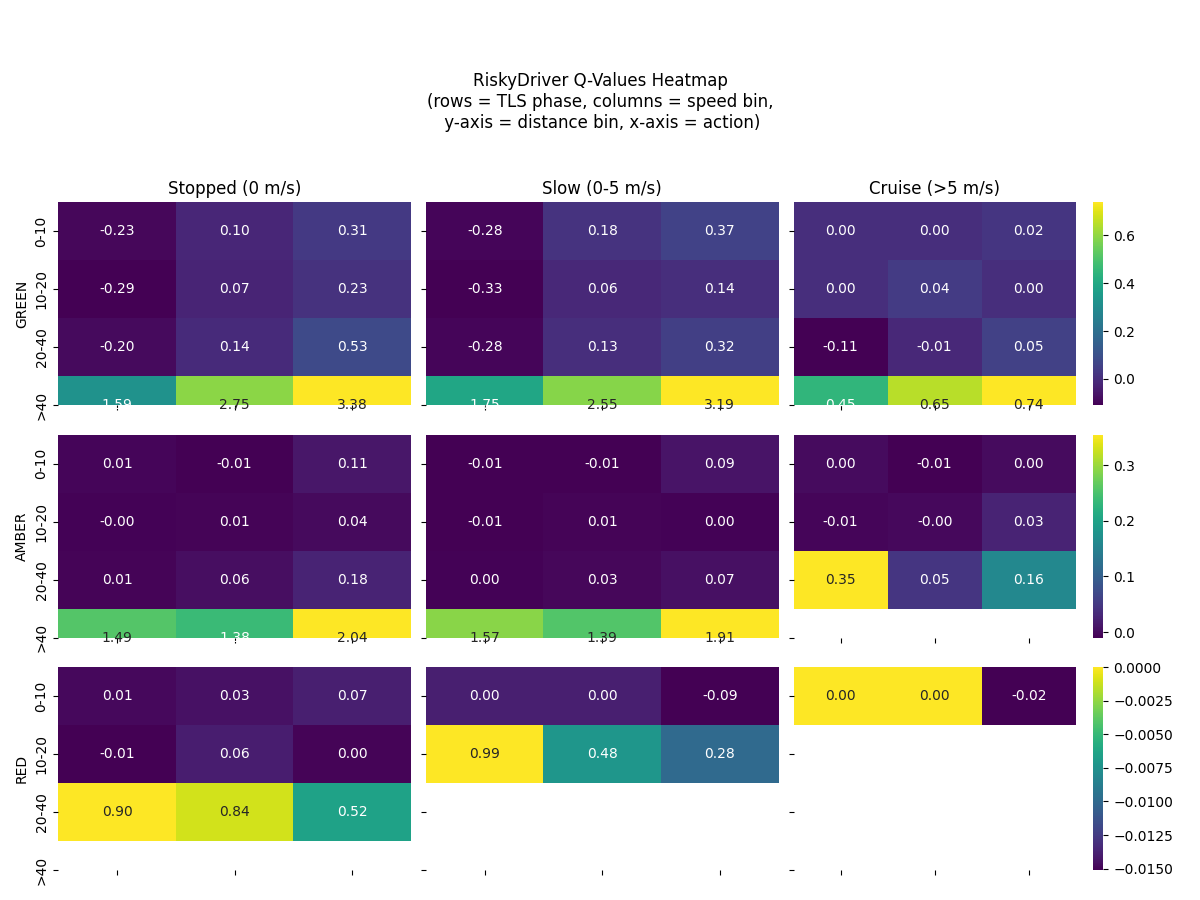
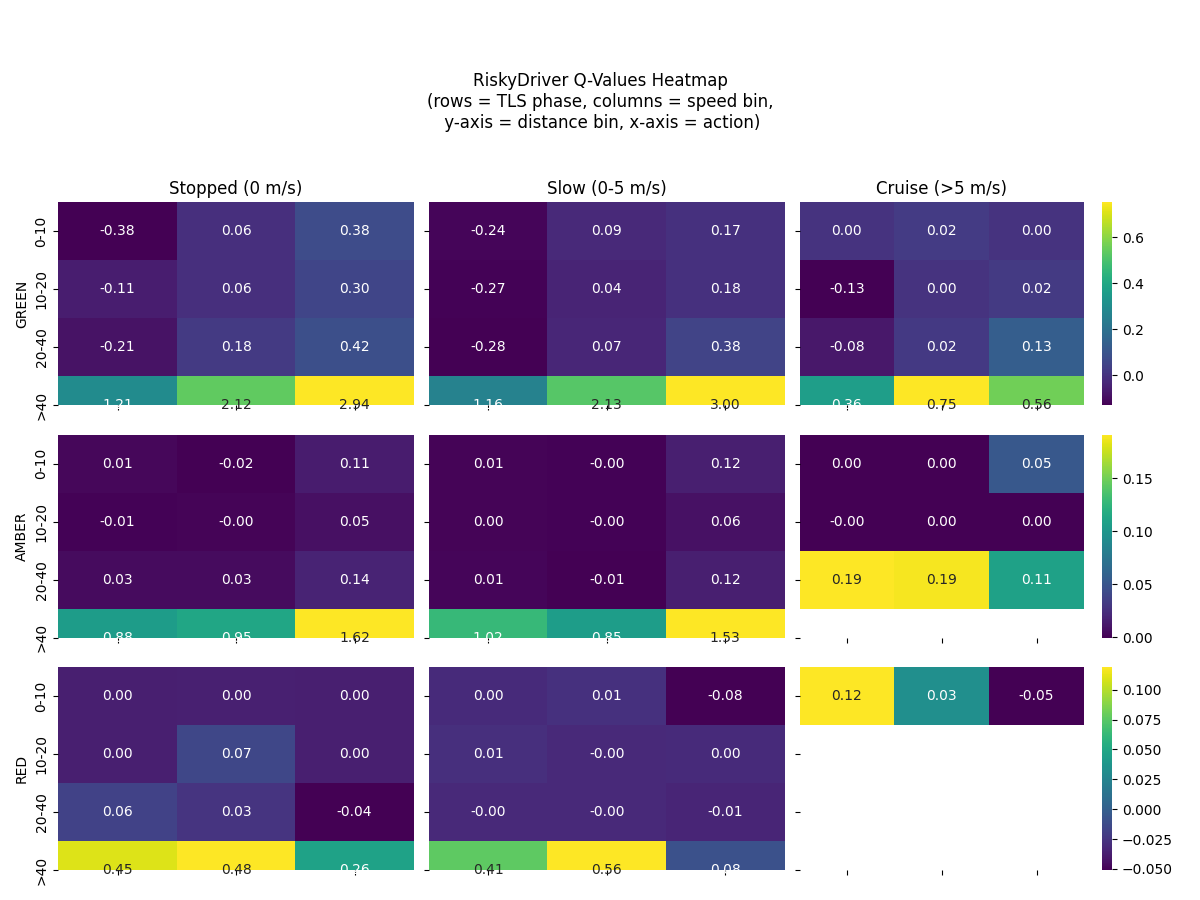
fix: YAY finally fixed amber red encs

diff --git a/src/simulation/simulation_runner.py b/src/simulation/simulation_runner.py
@@ -76,17 +76,20 @@ class SimulationRunner:
                     # TLS stuff
                     next_tls = traci.vehicle.getNextTLS(vid)
                     seen_ids = set()
-                    for tls_id, state, dist_raw, *extra in next_tls:
+                    for tls_id, link_index, dist_raw, *extra in next_tls:
                         dist = float(dist_raw)
                         seen_ids.add(tls_id)
-                        st = str(state).lower()
-                        rec['tls_last_state'][tls_id] = st
 
-                        if dist <= 10.0:
+                        # fetch actual TLS colour string, e.g. "GrY"
+                        raw_state = traci.trafficlight.getRedYellowGreenState(tls_id).lower()
+                        rec['tls_last_state'][tls_id] = raw_state
+
+                        # count first encounter within 10 m
+                        if dist <= 10.0 and tls_id not in rec['tls_encountered']:
                             rec['tls_encountered'].add(tls_id)
-                            if 'y' in st:
+                            if 'y' in raw_state:
                                 rec['amber_encountered'] += 1
-                            elif 'r' in st:
+                            elif 'r' in raw_state:
                                 rec['red_encountered'] += 1
 
                     passed = set(rec['tls_last_state']) - seen_ids
@@ -135,13 +138,20 @@ class SimulationRunner:
             except traci.TraCIException:
                 pass
 
-            # get tls metrics
+            #FIXME: overwrites amber/red encs
+            # # get tls metrics
+            # for agent in agent_manager.agents:
+            #     vid = getattr(agent, 'vehicle_id', None) or getattr(agent, 'vid', None)
+            #     rec = data[vid]
+            #     rec['amber_encountered'] = agent.recorder.amber_encounters
+            #     rec['red_encountered']   = agent.recorder.red_encounters
+            #     rec['amber_run_count']   = agent.recorder.amber_runs
+            #     rec['red_run_count']     = agent.recorder.red_runs
+
             for agent in agent_manager.agents:
-                vid = getattr(agent, 'vehicle_id', None) or getattr(agent, 'vid', None)
+                vid = agent.vehicle_id
                 rec = data[vid]
-                rec['amber_encountered'] = agent.recorder.amber_encounters
-                rec['red_encountered']   = agent.recorder.red_encounters
-                rec['amber_run_count']   = agent.recorder.amber_runs
-                rec['red_run_count']     = agent.recorder.red_runs
+                rec['amber_run_count'] = agent.recorder.amber_runs
+                rec['red_run_count']   = agent.recorder.red_runs
 
         return data, route_idx

diff --git a/src/agents/safe_driver.py b/src/agents/safe_driver.py
@@ -29,34 +29,52 @@ class SafeDriver(QLearningDriver):
         )
         self.state = 'approach'
 
+        self.last_tls_phase: str | None = None
+
     def encode_state(self) -> tuple[str,int,int,int]:
         """
         Returns (phase, dist_bin, speed_bin, ttl_bin)
         """
+
         next_tls = traci.vehicle.getNextTLS(self.vehicle_id)
+
         if not next_tls:
             # free road = treat like green/farthest tls
             speed = traci.vehicle.getSpeed(self.vehicle_id)
             return 'GREEN', 3, self._speed_bin(speed), N_TTL_BINS-1
 
         tls_id, _, dist, _ = next_tls[0]
-        raw = traci.trafficlight.getRedYellowGreenState(tls_id)
+
+        #NOTE: logic now done in simulation_runner.py isntead
+        # raw   = traci.trafficlight.getRedYellowGreenState(tls_id).lower()
+
+        # phase = 'GREEN' if 'g' in raw else ('AMBER' if 'y' in raw else 'RED')
+
+        # if self.last_tls_phase is None or phase != self.last_tls_phase:
+        #     if phase == 'AMBER':
+        #         self.recorder.saw_amber()
+        #     elif phase == 'RED':
+        #         self.recorder.saw_red()
+
+        raw   = traci.trafficlight.getRedYellowGreenState(tls_id).lower()
         phase = 'GREEN' if 'g' in raw else ('AMBER' if 'y' in raw else 'RED')
+        self.last_tls_phase = phase
 
         # distance bins
-        if   dist <= 10: dist_b = 0
+        if dist <= 10: dist_b = 0
         elif dist <= 20: dist_b = 1
         elif dist <= 40: dist_b = 2
-        else:            dist_b = 3
+        else: dist_b = 3
 
-        speed   = traci.vehicle.getSpeed(self.vehicle_id)
+        speed = traci.vehicle.getSpeed(self.vehicle_id)
         speed_b = self._speed_bin(speed)
-        ttl_b   = self._time_to_red_bin(tls_id)
+        ttl_b = self._time_to_red_bin(tls_id)
 
         return phase, dist_b, speed_b, ttl_b
 
     def _speed_bin(self, speed: float) -> int:
-        if speed == 0:     return 0
+        if speed == 0: 
+            return 0
         return 1 if speed <= 5 else 2
 
     def _time_to_red_bin(self, tls_id: str) -> int:
@@ -65,9 +83,9 @@ class SafeDriver(QLearningDriver):
         """
         # TODO: check tuple size unpack
         switch_time = traci.trafficlight.getNextSwitch(tls_id)
-        now         = traci.simulation.getTime()
-        total_dur   = traci.trafficlight.getPhaseDuration(tls_id)
-        ttl_frac    = max(0.0, (switch_time - now) / total_dur)
+        now = traci.simulation.getTime()
+        total_dur = traci.trafficlight.getPhaseDuration(tls_id)
+        ttl_frac = max(0.0, (switch_time - now) / total_dur)
         return min(N_TTL_BINS-1, int(ttl_frac * N_TTL_BINS))
 
     def compute_reward(

diff --git a/src/agents/risky_driver.py b/src/agents/risky_driver.py
@@ -27,8 +27,9 @@ class RiskyDriver(QLearningDriver):
             gamma=0.9,
             epsilon=1.0,
         )
+
         self.route = route
-        self.last_tls_state = None  # event recording
+        self.last_tls_phase: str | None = None
 
         # tuneable motion parameters
         self.a_c = 4.5
@@ -46,25 +47,31 @@ class RiskyDriver(QLearningDriver):
             return 'GREEN', 3, self._speed_bin(speed), N_TTL_BINS-1
 
         tls_id, _, dist, _ = next_tls[0]
-        raw = traci.trafficlight.getRedYellowGreenState(tls_id).lower()
 
-        # record amber/red events once
-        if self.last_tls_state is None or raw != self.last_tls_state:
-            if 'y' in raw:
-                self.recorder.saw_amber()
-            if 'r' in raw:
-                self.recorder.saw_red()
-        self.last_tls_state = raw
+        #NOTE: should now work in simulation_runner.py instead
+        # # collapse into phase
+        # raw   = traci.trafficlight.getRedYellowGreenState(tls_id).lower()
+        # phase = 'GREEN' if 'g' in raw else ('AMBER' if 'y' in raw else 'RED')
 
+        # # record exactly one encounter when phase first changes
+        # if self.last_tls_phase is None or phase != self.last_tls_phase:
+        #     if phase == 'AMBER':
+        #         self.recorder.saw_amber()
+        #     elif phase == 'RED':
+        #         self.recorder.saw_red()
+        # self.last_tls_phase = phase
+
+        raw   = traci.trafficlight.getRedYellowGreenState(tls_id).lower()
         phase = 'GREEN' if 'g' in raw else ('AMBER' if 'y' in raw else 'RED')
+        self.last_tls_phase = phase
 
         # distance bins
-        if   dist <= 10: dist_b = 0
+        if dist <= 10: dist_b = 0
         elif dist <= 20: dist_b = 1
         elif dist <= 40: dist_b = 2
-        else:            dist_b = 3
+        else: dist_b = 3
 
-        speed   = traci.vehicle.getSpeed(self.vehicle_id)
+        speed = traci.vehicle.getSpeed(self.vehicle_id)
         speed_b = self._speed_bin(speed)
         ttl_b   = self._time_to_red_bin(tls_id)
 

diff --git a/src/agents/agent_manager.py b/src/agents/agent_manager.py
@@ -80,10 +80,11 @@ class AgentManager:
             self.safe_driver = SafeDriver(safe_id, recorder)
             self.agents.append(self.safe_driver)
         else:
-            self.safe_driver.vehicle_id  = safe_id
-            self.safe_driver.prev_state  = None
+            self.safe_driver.vehicle_id = safe_id
+            self.safe_driver.prev_state = None
             self.safe_driver.last_action = None
-            self.safe_driver.recorder    = TLSEventRecorder()
+            self.safe_driver.recorder = TLSEventRecorder()
+            self.safe_driver.last_tls_phase = None
 
         # riskydriver instantiation / reuse
         if self.risky_driver is None:
@@ -91,10 +92,11 @@ class AgentManager:
             self.risky_driver = RiskyDriver(risky_id, self.route_id, recorder)
             self.agents.append(self.risky_driver)
         else:
-            self.risky_driver.vehicle_id  = risky_id
-            self.risky_driver.prev_state  = None
+            self.risky_driver.vehicle_id = risky_id
+            self.risky_driver.prev_state = None
             self.risky_driver.last_action = None
-            self.risky_driver.recorder    = TLSEventRecorder()
+            self.risky_driver.recorder = TLSEventRecorder()
+            self.risky_driver.last_tls_phase = None
 
     def update_agents(self, step: int) -> None:
         active = set(traci.vehicle.getIDList())

diff --git a/src/simulation/batch.py b/src/simulation/batch.py
@@ -91,14 +91,14 @@ def main(num_runs: int = 100):
         return df
 
 
-    qt_safe    = mgr.safe_driver.qtable
-    df_q_safe  = build_q_df(qt_safe)
+    qt_safe = mgr.safe_driver.qtable
+    df_q_safe = build_q_df(qt_safe)
 
-    qt_risky   = mgr.risky_driver.qtable
+    qt_risky = mgr.risky_driver.qtable
     df_q_risky = build_q_df(qt_risky)
 
-    phases      = ["GREEN", "AMBER", "RED"]
-    speed_bins  = [0, 1, 2]
+    phases = ["GREEN", "AMBER", "RED"]
+    speed_bins = [0, 1, 2]
     dist_labels = ["0-10", "10-20", "20-40", ">40"]
     speed_labels = {
         0: "Stopped (0 m/s)",
